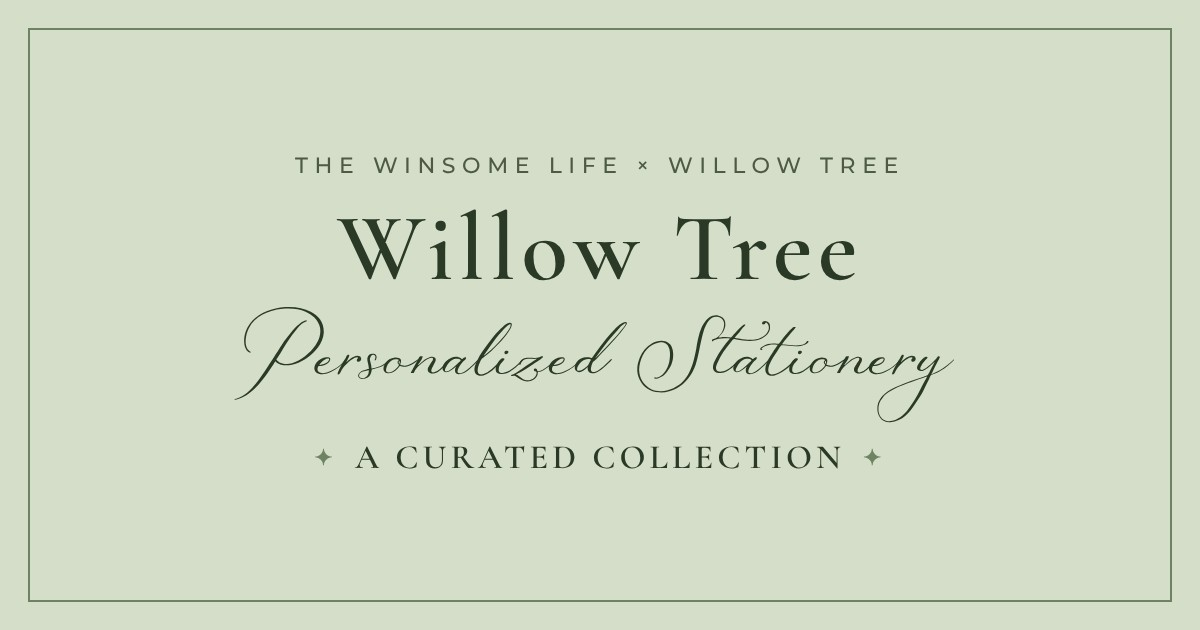
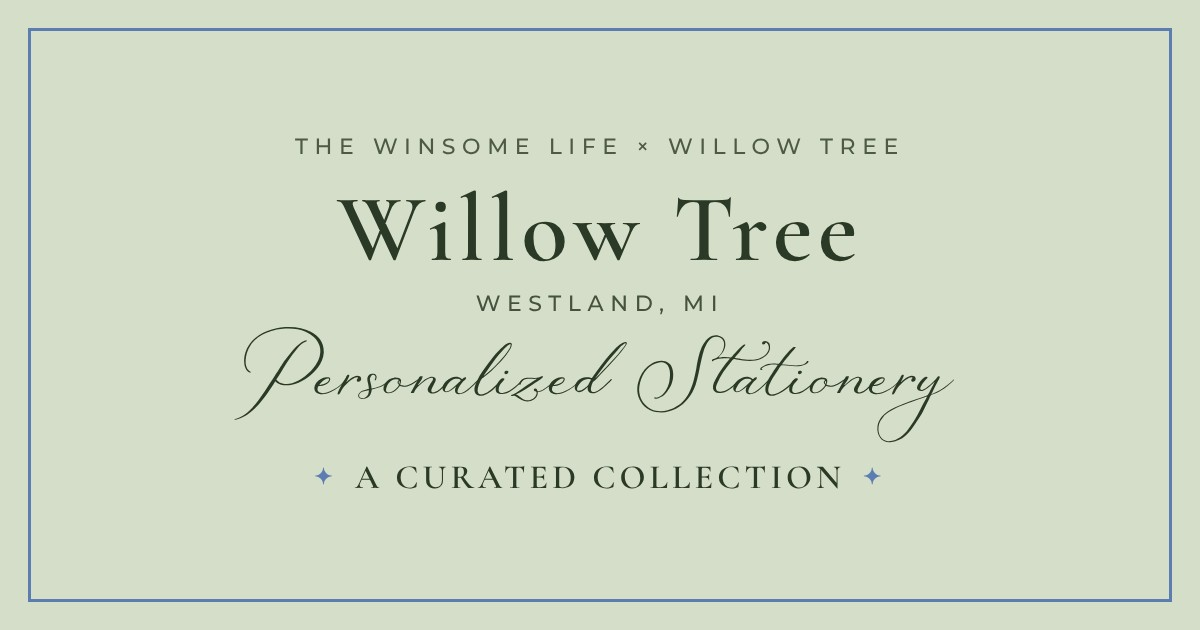
Willow Tree: Westland, MI under the name; French blue accent
Claude-Session: https://claude.ai/code/session_01CfVqtoW5zsALxSaAEsBk63

diff --git a/app/lib/partners.ts b/app/lib/partners.ts
@@ -138,6 +138,7 @@ export const PARTNERS: Record<string, Partner> = {
   'willow-tree': {
     handle: 'willow-tree',
     name: 'Willow Tree',
+    location: 'Westland, MI',
     collection: 'partner-willow-tree',
     // Shopify code discount WillowTree35: 35% off (most collections), no end
     // date. Products copied from Boxwood Cottage (Sydney, Nov 2026).
@@ -149,8 +150,9 @@ export const PARTNERS: Record<string, Partner> = {
     logo: null,
     viewToggle: true,
     shareImage: willowTreeShare,
-    // Soft sage green (Sydney); lighter than Boxwood Cottage's sage.
-    colors: {background: '#D5DEC9', text: '#2B3A26', accent: '#6E8362'},
+    // Soft sage green with a French blue accent (the bordered discount line
+    // and the share picture's frame) (Sydney).
+    colors: {background: '#D5DEC9', text: '#2B3A26', accent: '#5B7DB1'},
   },
   'cahill-edit': {
     handle: 'cahill-edit',
